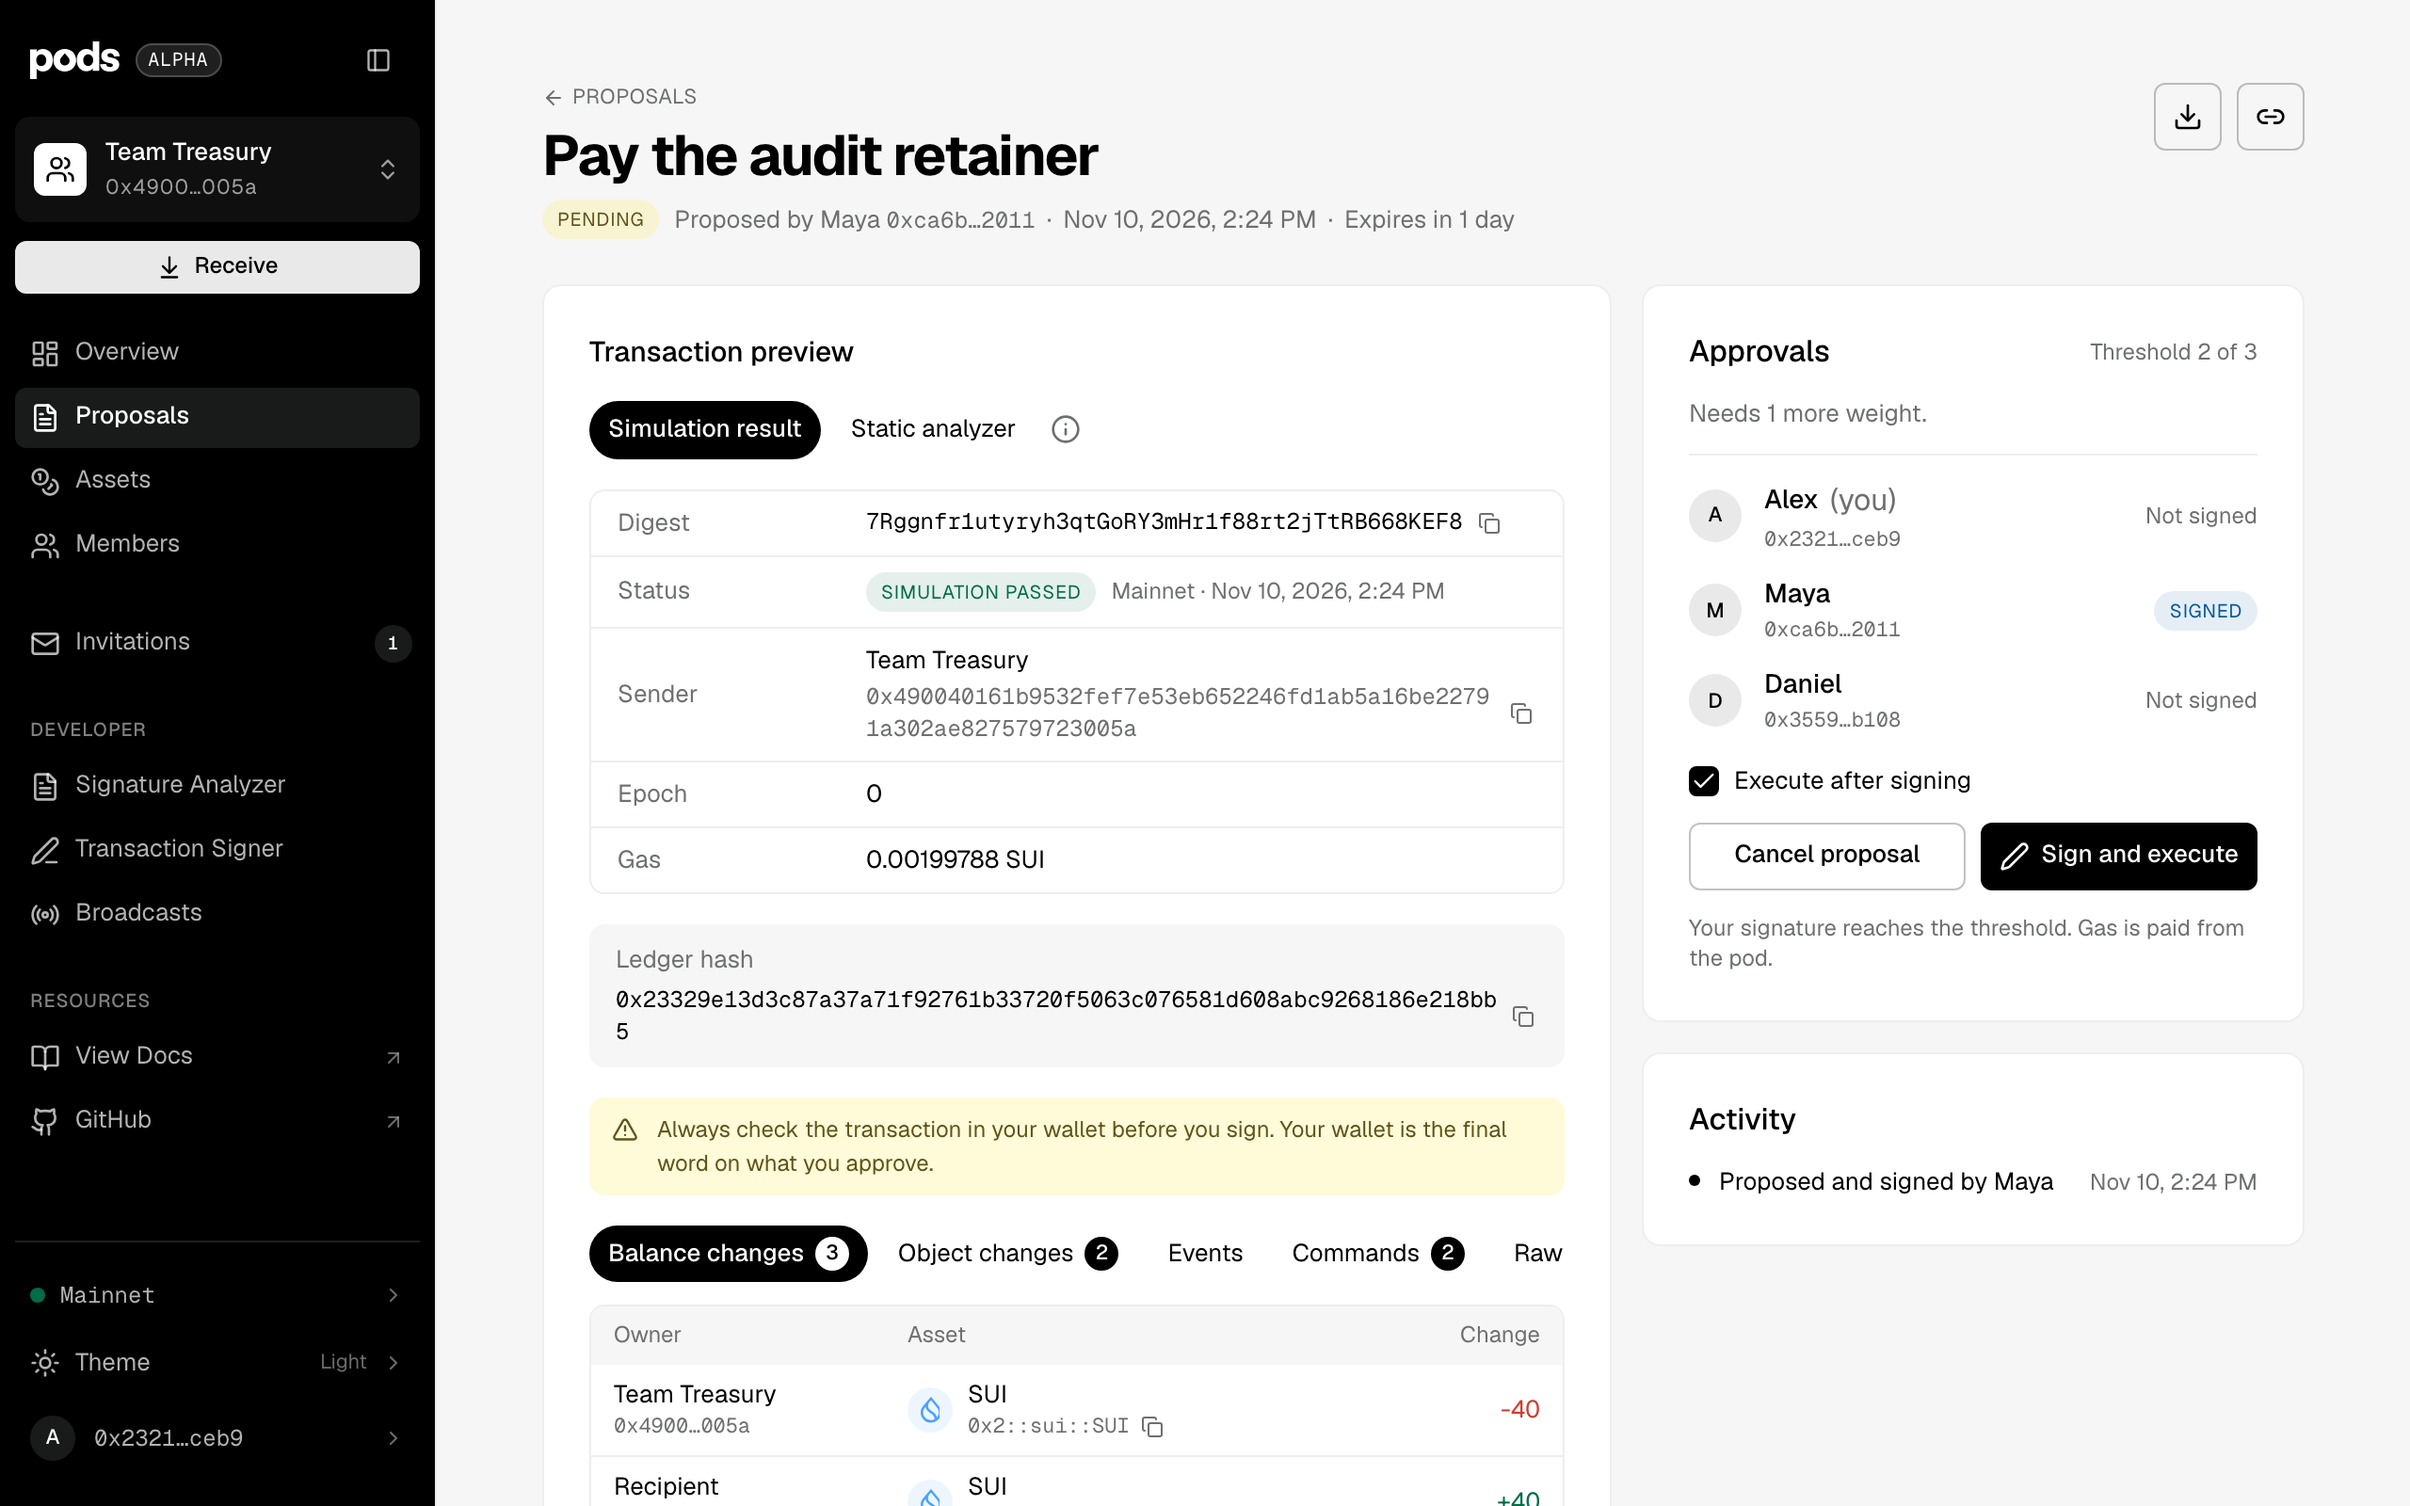
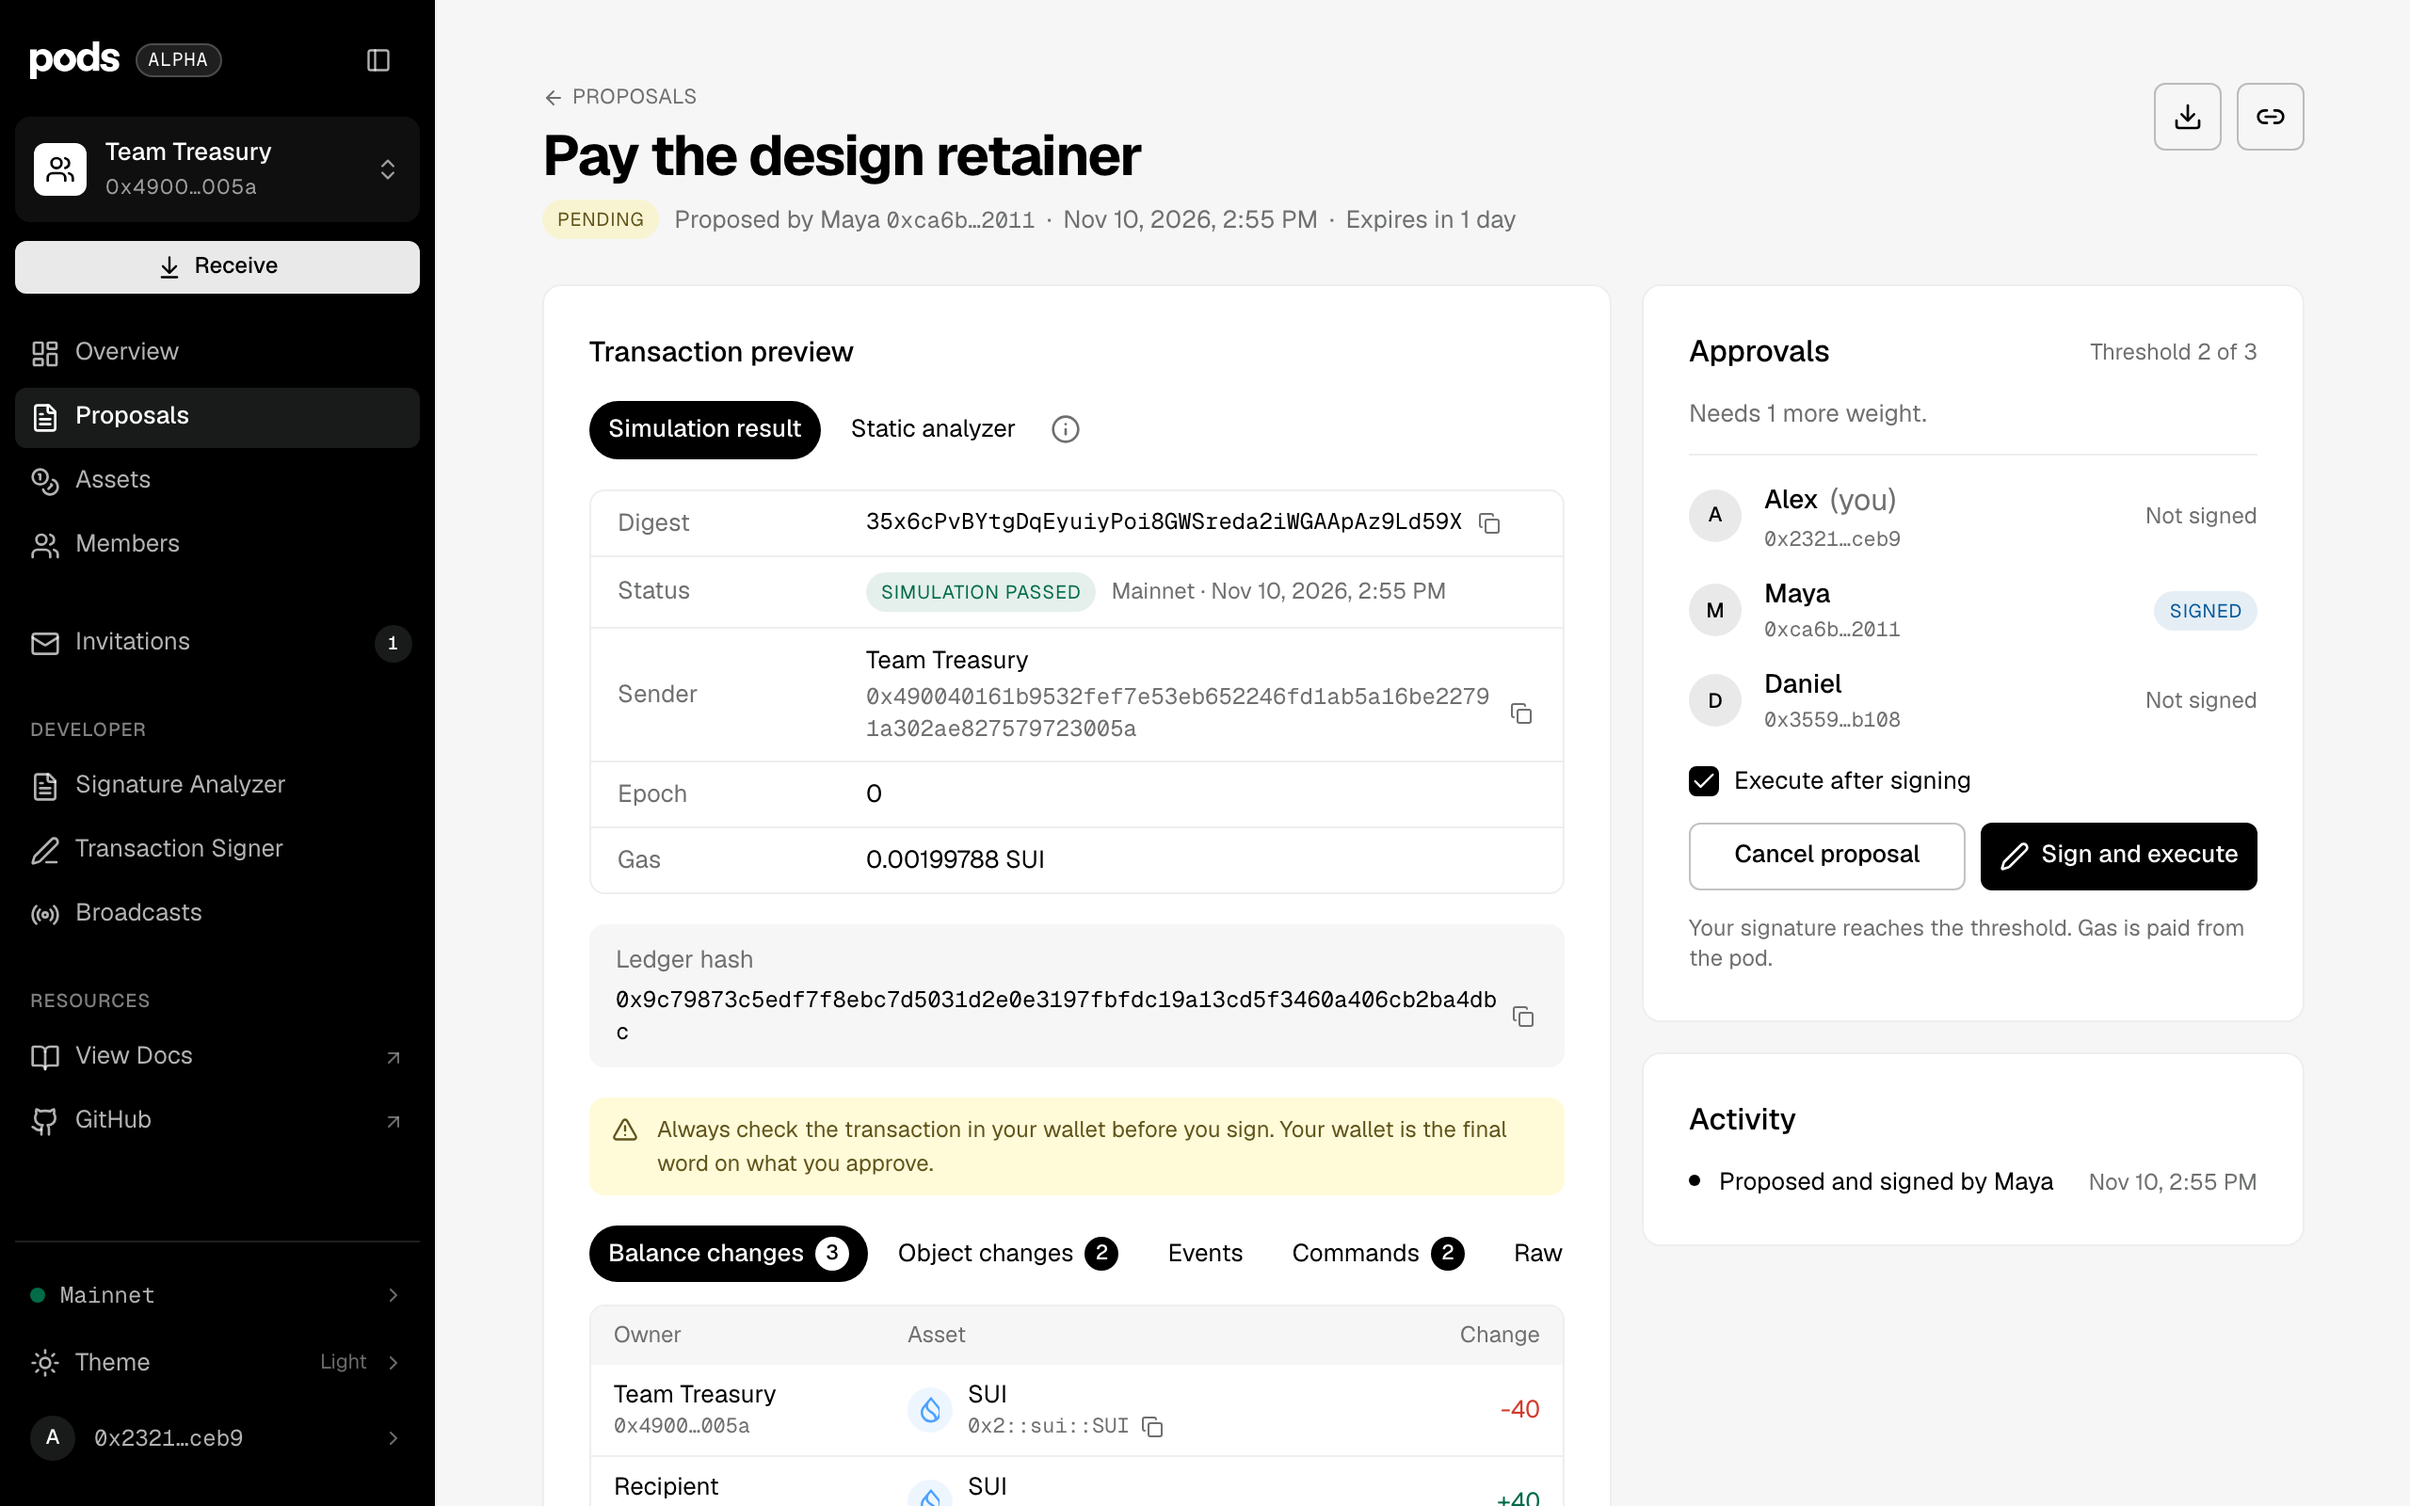
docs: Tidy the screenshot script after review
Drop an unused option from the screenshot helper, share the external-URL pattern in the docs check, keep one default for the test wallet's network, and rename the demo proposal; the four screenshots that changed are regenerated.

diff --git a/e2e/docs-screenshots/walkthrough.spec.ts b/e2e/docs-screenshots/walkthrough.spec.ts
@@ -5,12 +5,7 @@ import { createHash } from 'node:crypto';
 import { fileURLToPath } from 'node:url';
 import { Ed25519Keypair } from '@mysten/sui/keypairs/ed25519';
 import { MIST_PER_SUI } from '@mysten/sui/utils';
-import {
-	expect,
-	test,
-	type Locator,
-	type Page,
-} from '@playwright/test';
+import { expect, test, type Page } from '@playwright/test';
 
 import { Actor } from '../support/actor';
 import { Chain, SUI_TYPE } from '../support/chain';
@@ -57,25 +52,19 @@ function person(name: string, label: string) {
 }
 
 // Waits for fonts, parks the pointer and focus, and hides toasts.
-async function shoot(
-	page: Page,
-	name: string,
-	{ clip }: { clip?: Locator } = {},
-) {
+async function shoot(page: Page, name: string) {
 	await page.evaluate(async () => {
 		await document.fonts.ready;
 		(document.activeElement as HTMLElement | null)?.blur();
 	});
 	await page.mouse.move(0, 0);
-	const options = {
+	await page.screenshot({
 		path: `${OUT_DIR}${name}.png`,
 		animations: 'disabled',
 		caret: 'hide',
 		style:
 			'[data-sonner-toaster] { display: none !important; }',
-	} as const;
-	if (clip) await clip.screenshot(options);
-	else await page.screenshot(options);
+	});
 }
 
 test('getting started', async ({ browser }) => {
@@ -243,7 +232,7 @@ test('getting started', async ({ browser }) => {
 			multisigAddress: treasury,
 			recipient: tomas.address,
 			amount: 40n * MIST_PER_SUI,
-			description: 'Pay the audit retainer',
+			description: 'Pay the design retainer',
 			network: 'mainnet',
 		});
 		await page.goto(

diff --git a/docs/scripts/check-docs.ts b/docs/scripts/check-docs.ts
@@ -30,6 +30,9 @@ const parser = unified()
 	.use(remarkMdx)
 	.use(remarkHeading, { generateToc: false });
 
+// Has a scheme (https:, mailto:) or is protocol-relative (//host).
+const EXTERNAL = /^([a-z][a-z\d+.-]*:|\/\/)/i;
+
 type Link = { href: string; line: number; jsx: boolean };
 type Image = { src: string; alt: string; line: number };
 type Page = {
@@ -327,7 +330,7 @@ function checkLink(
 	line: number,
 	jsx = false,
 ) {
-	if (/^([a-z][a-z\d+.-]*:|\/\/)/i.test(href)) return;
+	if (EXTERNAL.test(href)) return;
 	const [target, anchor] = href.split('#', 2);
 	// Fumadocs rewrites file paths only in Markdown links that start with ./ or ../.
 	if (target.endsWith('.mdx')) {
@@ -371,7 +374,7 @@ function checkImage(page: Page, { src, alt, line }: Image) {
 			`image "${src}" needs alt text`,
 		);
 	}
-	if (/^([a-z][a-z\d+.-]*:|\/\/)/i.test(src)) return;
+	if (EXTERNAL.test(src)) return;
 	if (!src.startsWith('/')) {
 		report(
 			page.file,

diff --git a/e2e/support/actor.ts b/e2e/support/actor.ts
@@ -131,10 +131,7 @@ export class Actor extends Identity {
 			// Start on the wallet's network, but keep a network the app
 			// saved, so a reload lands where the user left off.
 			if (!localStorage.getItem('SuiNetwork'))
-				localStorage.setItem(
-					'SuiNetwork',
-					config.network ?? 'localnet',
-				);
+				localStorage.setItem('SuiNetwork', config.network);
 			window.__E2E_WALLET_CONFIG__ = config;
 		}, walletConfig);
 		await context.addInitScript({

diff --git a/e2e/wallet/types.ts b/e2e/wallet/types.ts
@@ -6,8 +6,8 @@
 export interface E2EWalletConfig {
 	name: string;
 	rpcUrl: string;
-	// The network `rpcUrl` serves, as the app names it. Defaults to localnet.
-	network?: string;
+	// The network `rpcUrl` serves, as the app names it.
+	network: string;
 	// Bech32 `suiprivkey1…` Ed25519 secret keys, in account order. `zkLogin`
 	// presents the account with a zkLogin key instead of that one.
 	accounts: {

diff --git a/e2e/wallet/inject.ts b/e2e/wallet/inject.ts
@@ -193,7 +193,7 @@ async function registerE2EWallet(config: E2EWalletConfig) {
 		});
 	}
 
-	const network = config.network ?? 'localnet';
+	const { network } = config;
 	const wallet = new E2EWallet({
 		name: config.name,
 		adapters: [adapter],
